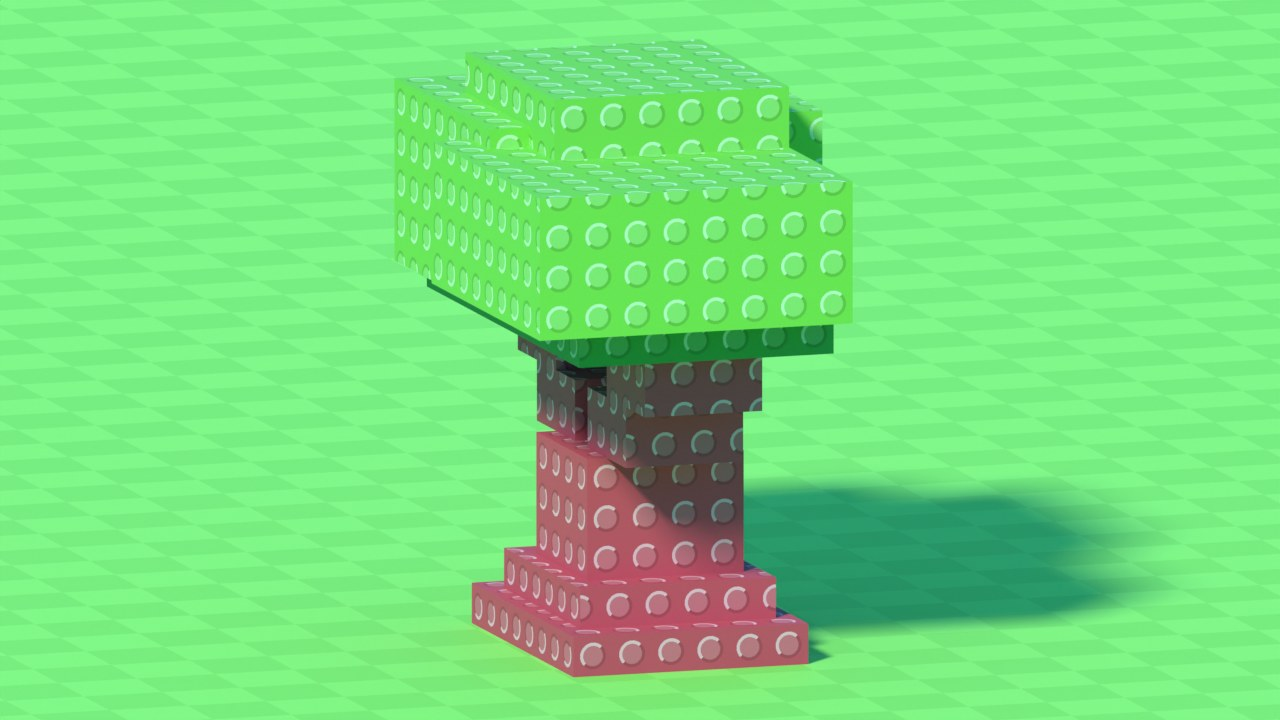
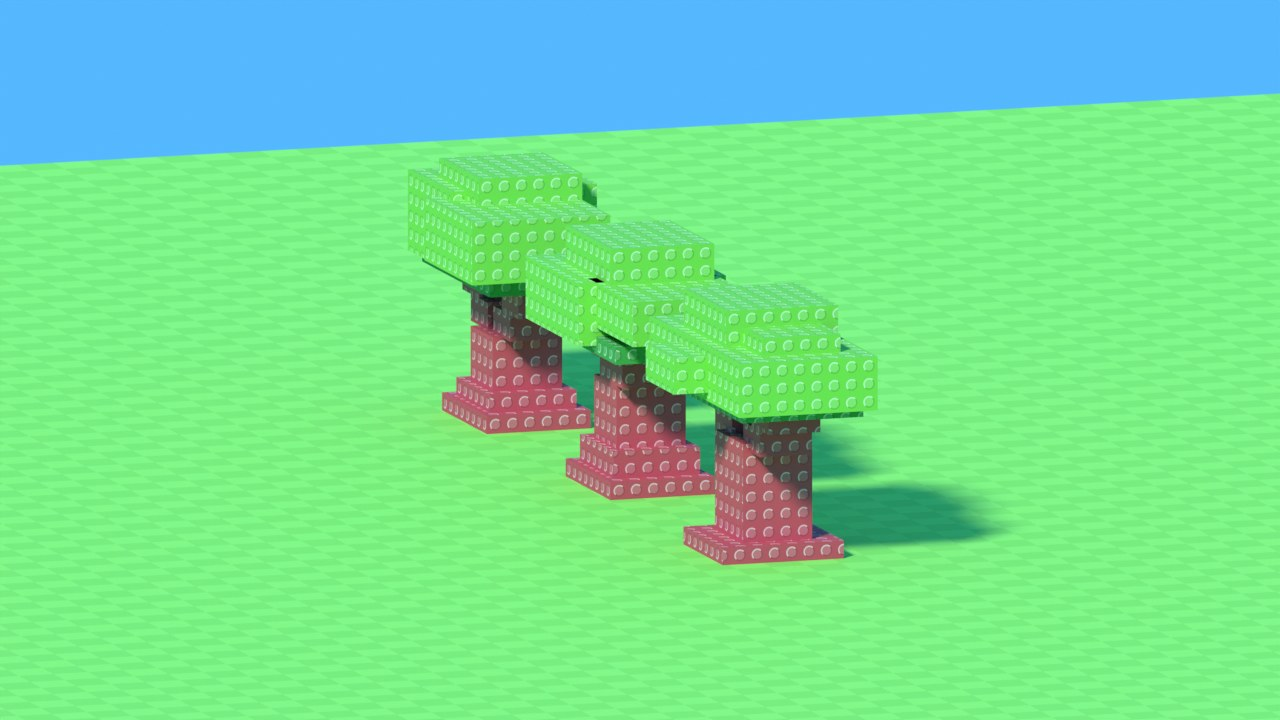
Forja Rápida: 3 variantes por árbol de la Pradera y Arbol_Seco nuevo (ramas de cajas inclinadas, referencia arbol-seco-*.png), renders de prueba

diff --git a/forja-rapida/arte/scripts/decoracion.py b/forja-rapida/arte/scripts/decoracion.py
@@ -47,6 +47,10 @@ Piezas:
   Arbol_Rosa     Pradera (va al fondo): el mediano como un cerezo de bloques: tronco marrón rojizo,
                  caja de abajo fucsia y escalón violeta. Mallas Tronco, Sombra, CopaFucsia y
                  CopaVioleta.
+  Arbol_Seco     Pradera: tronco de ladrillos marrón violeta con base en escalones y 3 ramas de
+                 cajas inclinadas que terminan en punta, sin hojas (16 studs de alto; referencia
+                 arte/referencias/arbol-seco-*.png). Malla Tronco.
+                 Cada árbol de la Pradera tiene 3 variantes (Arbol_Grande_1, _2 y _3...).
   Roca_Meteorito solo Abismo: media bola chata de bloques de 2 studs azul noche, con un cráter
                  arriba (corrido a un costado) que brilla violeta en el fondo y estrellitas lilas
                  (Neon) en los costados (arte/referencias/abismo-1.png). Dos tamaños: Chico (12
@@ -190,6 +194,37 @@ class Malla:
             signo = 1 if letra.isupper() else -1
             a, b = self.EJES[eje]
             self.rect(eje, signo, rangos[eje][1 if signo > 0 else 0], rangos[a], rangos[b])
+
+    def caja_girada(self, base, largo, ancho, rumbo, inclinacion):
+        """Caja de ancho x ancho x largo que sale de `base` (centro de su cara de abajo, en studs)
+        inclinada `inclinacion` grados desde la vertical hacia `rumbo` (grados en el piso, 0 = +x).
+        Los studs siguen a la caja (sus UV se cortan cada TEJA studs desde su propia esquina)."""
+        from mathutils import Matrix, Vector
+
+        giro = Matrix.Rotation(math.radians(rumbo), 3, "Z") @ Matrix.Rotation(math.radians(inclinacion), 3, "Y")
+        h = ancho / 2
+        rangos = ((-h, h), (-h, h), (0, largo))
+        for eje in range(3):
+            a, b = self.EJES[eje]
+            for signo in (-1, 1):
+                fijo = rangos[eje][1 if signo > 0 else 0]
+                # en la caja, los cortes de la textura empiezan en su esquina
+                for a0, a1 in cortes(0, rangos[a][1] - rangos[a][0]):
+                    for b0, b1 in cortes(0, rangos[b][1] - rangos[b][0]):
+                        ta, tb = math.floor(a0 / TEJA + 1e-6) * TEJA, math.floor(b0 / TEJA + 1e-6) * TEJA
+                        esquinas = [(a0, b0), (a1, b0), (a1, b1), (a0, b1)]
+                        if signo < 0:
+                            esquinas.reverse()
+                        vs, uvs = [], []
+                        for ca, cb in esquinas:
+                            p = Vector((0.0, 0.0, 0.0))
+                            p[eje], p[a], p[b] = fijo, ca + rangos[a][0], cb + rangos[b][0]
+                            q = Vector(base) + giro @ p
+                            vs.append(self.bm.verts.new([c * M.STUD for c in q]))
+                            uvs.append(((ca - ta) / TEJA, (cb - tb) / TEJA))
+                        cara = self.bm.faces.new(vs)
+                        for loop, uv in zip(cara.loops, uvs):
+                            loop[self.uv].uv = uv
 
     def objeto(self, nombre, mat):
         malla = bpy.data.meshes.new(nombre)
@@ -1031,80 +1066,182 @@ def mats_arbol(studs=None):
     return mats
 
 
-# Arbol_Grande (Pradera): como los árboles de las capturas (arte/referencias/estilo-1.png y
-# mapa-1.png): tronco grueso bordó en escalones que se abre en 2 ramas, una losa verde oscuro de
-# sombra abajo de la copa y 4 cajas verdes corridas y en escalones (la de la izquierda sobresale
-# de costado). 14 studs de alto, 17 de ancho.
+# Árboles de la Pradera (zona 1), como los de las capturas (arte/referencias/estilo-1.png y
+# mapa-1.png): cajas en studs ((x0, x1), (y0, y1), (z0, z1)), una lista por malla. Cada tipo tiene
+# 3 variantes; pivote en el centro de la base.
+#   Arbol_Grande  (14 studs) tronco grueso bordó que se abre en ramas, losa de sombra y copa de
+#                 4 cajas verdes corridas en escalones, alguna que sobresale.
+#   Arbol_Mediano (9) tronco recto y 2 cajas de copa en escalón.
+#   Arbol_Rosa    (9) el mediano como un cerezo de bloques: abajo fucsia, el escalón violeta.
+#   Arbol_Seco    (16) tronco de ladrillos marrón violeta en punta, con base en escalones y 3 ramas
+#                 de cajas inclinadas que terminan en punta, sin hojas (arte/referencias/arbol-seco-*.png).
 GRANDE_TRONCO = "#B0414E"  # bordó, como los troncos del juego
 GRANDE_SOMBRA = "#2F8F3A"  # HojasOscuras de mapa.py
 GRANDE_COPA = "#66C23A"
-# cajas en studs: ((x0, x1), (y0, y1), (z0, z1))
-GRANDE_CAJAS = {
-    "tronco": [
-        ((-4, 4), (-3, 3), (0, 1)),  # raíces
-        ((-3, 3), (-2.5, 2.5), (1, 2)),
-        ((-2, 2), (-2, 2), (2, 5)),
-        ((-3.5, -0.5), (-1.5, 1.5), (5, 6.5)),  # rama izquierda
-        ((-5, -2), (-1.5, 1.5), (6.5, 8.5)),
-        ((0.5, 3.5), (-1.5, 1.5), (5, 6.5)),  # rama derecha
-        ((2, 5), (-1.5, 1.5), (6.5, 8.5)),
-    ],
-    "sombra": [((-6, 6), (-3.5, 3), (8, 9))],
-    "copa": [
-        ((-7, 0.5), (-4, 4.5), (8.5, 13)),  # la grande de la izquierda
-        ((-1, 7.5), (-5, 3), (9, 12.5)),  # la de la derecha, más baja y corrida al frente
-        ((-4.5, 2.5), (-3, 3), (12.5, 14)),  # escalón de arriba
-        ((-10, -6), (-2.5, 2), (9.5, 12)),  # la que sobresale de costado
-    ],
-}
-MAX_GRANDE = 3000  # por pieza (sumando sus mallas)
-# Arbol_Mediano (Pradera): como el grande, con tronco recto y 2 cajas de copa en escalón.
-# 9 studs de alto, 10 de ancho.
-MEDIANO_CAJAS = {
-    "tronco": [
-        ((-3, 3), (-2, 2), (0, 1)),  # raíces
-        ((-2, 2), (-1.5, 1.5), (1, 5)),
-    ],
-    "sombra": [((-4, 4), (-3, 2.5), (4.5, 5.5))],
-    "copa": [
-        ((-5, 1.5), (-3.5, 3.5), (5, 7.5)),  # la de abajo, corrida a la izquierda
-        ((-1, 5), (-3, 2.5), (6.5, 9)),  # el escalón, más alto y a la derecha
-    ],
-}
-MAX_MEDIANO = 2000
-# Arbol_Rosa (Pradera, va al fondo): el mediano como un cerezo de bloques (capturas del juego):
-# tronco marrón rojizo, la caja de abajo fucsia y el escalón violeta, sombra violeta oscuro.
-ROSA_CAJAS = {
-    "tronco": MEDIANO_CAJAS["tronco"],
-    "sombra": MEDIANO_CAJAS["sombra"],
-    "fucsia": MEDIANO_CAJAS["copa"][:1],
-    "violeta": MEDIANO_CAJAS["copa"][1:],
-}
+GRANDES = [
+    {  # 1: se abre en V, la copa sobresale a la izquierda
+        "tronco": [
+            ((-4, 4), (-3, 3), (0, 1)),  # raíces
+            ((-3, 3), (-2.5, 2.5), (1, 2)),
+            ((-2, 2), (-2, 2), (2, 5)),
+            ((-3.5, -0.5), (-1.5, 1.5), (5, 6.5)),  # rama izquierda
+            ((-5, -2), (-1.5, 1.5), (6.5, 8.5)),
+            ((0.5, 3.5), (-1.5, 1.5), (5, 6.5)),  # rama derecha
+            ((2, 5), (-1.5, 1.5), (6.5, 8.5)),
+        ],
+        "sombra": [((-6, 6), (-3.5, 3), (8, 9))],
+        "copa": [
+            ((-7, 0.5), (-4, 4.5), (8.5, 13)),  # la grande de la izquierda
+            ((-1, 7.5), (-5, 3), (9, 12.5)),  # la de la derecha, más baja y corrida al frente
+            ((-4.5, 2.5), (-3, 3), (12.5, 14)),  # escalón de arriba
+            ((-10, -6), (-2.5, 2), (9.5, 12)),  # la que sobresale de costado
+        ],
+    },
+    {  # 2: el tronco se corre a la derecha, una rama sola a la izquierda, sobresale a la derecha
+        "tronco": [
+            ((-4, 4), (-3, 3), (0, 1)),
+            ((-3, 3), (-2.5, 2.5), (1, 2.5)),
+            ((-2, 2), (-2, 2), (2.5, 6)),
+            ((-1, 3), (-2, 2), (6, 8.5)),
+            ((-4, -1.5), (-1, 1), (4.5, 6.5)),  # rama izquierda
+            ((-5.5, -3), (-1, 1), (6.5, 8.5)),
+        ],
+        "sombra": [((-6, 6.5), (-3.5, 3.5), (8, 9))],
+        "copa": [
+            ((-6.5, 3), (-4.5, 4), (8.5, 12)),
+            ((1.5, 9.5), (-3.5, 3.5), (9.5, 12)),  # la que sobresale de costado
+            ((-4, 4), (-3, 3), (11.5, 14)),  # escalón de arriba
+            ((-8.5, -4.5), (-2.5, 2.5), (9, 11)),
+        ],
+    },
+    {  # 3: copa ancha y chata en dos pisos, con una caja que sale al frente
+        "tronco": [
+            ((-3.5, 3.5), (-3.5, 3.5), (0, 1)),
+            ((-2.5, 2.5), (-2, 2), (1, 6.5)),
+            ((-4, -1), (-1.5, 1.5), (6, 7.5)),  # rama izquierda
+            ((-5.5, -2.5), (-1.5, 1.5), (7.5, 9)),
+            ((1, 4), (-1.5, 1.5), (6, 7.5)),  # rama derecha
+            ((2.5, 5.5), (-1.5, 1.5), (7.5, 9)),
+        ],
+        "sombra": [((-7, 7), (-3.5, 3.5), (8.5, 9.5))],
+        "copa": [
+            ((-8, 8), (-4, 4), (9, 12)),
+            ((-5, 2.5), (-3, 3.5), (12, 14)),  # escalón de arriba, corrido a la izquierda
+            ((2.5, 6), (-2, 2.5), (11.5, 13)),
+            ((-2.5, 2.5), (-6, -3.5), (9.5, 11.5)),  # la que sale al frente
+        ],
+    },
+]
+MEDIANOS = [
+    {  # 1: abajo a la izquierda, el escalón a la derecha
+        "tronco": [((-3, 3), (-2, 2), (0, 1)), ((-2, 2), (-1.5, 1.5), (1, 5))],
+        "sombra": [((-4, 4), (-3, 2.5), (4.5, 5.5))],
+        "copa": [((-5, 1.5), (-3.5, 3.5), (5, 7.5)), ((-1, 5), (-3, 2.5), (6.5, 9))],
+    },
+    {  # 2: al revés, y el tronco con un escalón
+        "tronco": [((-3, 3), (-2, 2), (0, 1)), ((-2, 2), (-1.5, 1.5), (1, 3)), ((-1.5, 2), (-1.5, 1.5), (3, 5))],
+        "sombra": [((-4, 4.5), (-2.5, 3), (4.5, 5.5))],
+        "copa": [((-1.5, 5), (-3.5, 3.5), (5, 7.5)), ((-5, 1), (-2.5, 3), (6.5, 9))],
+    },
+    {  # 3: en pirámide, el escalón centrado y corrido atrás
+        "tronco": [((-2.5, 2.5), (-2.5, 2.5), (0, 1)), ((-1.5, 1.5), (-1.5, 1.5), (1, 5))],
+        "sombra": [((-4, 4), (-3, 3), (4.5, 5.5))],
+        "copa": [((-4.5, 4.5), (-3.5, 3.5), (5, 7.5)), ((-2.5, 2.5), (-2, 3), (7, 9))],
+    },
+]
+# el rosa: la caja de abajo fucsia y el escalón violeta
+ROSAS = [{"tronco": m["tronco"], "sombra": m["sombra"], "fucsia": m["copa"][:1], "violeta": m["copa"][1:]} for m in MEDIANOS]
+
+
+def rama_seca(base, rumbo, tramos):
+    """Rama de cajas inclinadas (arte/referencias/arbol-seco-*.png): sale de `base` (studs) hacia
+    `rumbo` (grados en el piso, 0 = +x) y cada tramo (inclinación desde la vertical, largo,
+    ancho) arranca cerca de la punta del anterior; el último, más angosto, es la punta."""
+    x, y, z = base
+    cajas = []
+    for inclinacion, largo, ancho in tramos:
+        cajas.append(("girada", (x, y, z), largo, ancho, rumbo, inclinacion))
+        t, r = math.radians(inclinacion), math.radians(rumbo)
+        sigue = largo - ancho * 0.4
+        x += sigue * math.sin(t) * math.cos(r)
+        y += sigue * math.sin(t) * math.sin(r)
+        z += sigue * math.cos(t)
+    return cajas
+
+
+SECOS = [
+    {  # 1: tronco alto en punta, una rama larga a cada lado y una chica al frente
+        "tronco": [
+            ((-4, 4), (-3.5, 3.5), (0, 2)),  # base en escalones
+            ((-5, -3), (-2, 1), (0, 1)),
+            ((3, 5), (-1, 2), (0, 1.5)),
+            ((-1, 2), (-4.5, -3.5), (0, 1)),
+            ((-3, 3), (-3, 3), (2, 5)),
+            ((-2, 2), (-2, 2), (5, 13)),
+            ((-1.5, 1.5), (-1.5, 1.5), (13, 15)),
+            ((-1, 1), (-1, 1), (15, 16)),  # punta
+            *rama_seca((-1, 0, 7), 180, [(50, 7, 2.5), (30, 5, 2)]),
+            *rama_seca((1, 0.3, 8), 0, [(45, 6, 2.2), (25, 4, 1.8)]),
+            *rama_seca((0.5, -1, 10.5), -60, [(35, 3.5, 1.6)]),
+        ],
+    },
+    {  # 2: tronco más fino, dos ramas a la derecha y una a la izquierda
+        "tronco": [
+            ((-3.5, 3.5), (-3, 3), (0, 1.5)),
+            ((-2.5, 2.5), (-2.5, 2.5), (1.5, 4.5)),
+            ((2, 4), (-2, 0), (0, 2.5)),
+            ((-4, -2.5), (0, 2), (0, 1)),
+            ((-1.5, 1.5), (-1.5, 1.5), (4.5, 14)),
+            ((-1, 1), (-1, 1), (14, 16)),  # punta
+            *rama_seca((1, 0, 6), 10, [(55, 6, 2), (30, 5, 1.6)]),
+            *rama_seca((1, 0, 10), -10, [(40, 4, 1.8)]),
+            *rama_seca((-1, 0, 8), 190, [(40, 6, 2), (20, 4, 1.6)]),
+        ],
+    },
+    {  # 3: Y: tronco corto que se abre en dos brazos gruesos, y uno chico al frente
+        "tronco": [
+            ((-4, 4), (-3.5, 3.5), (0, 1.5)),
+            ((-3, 3), (-3, 3), (1.5, 4)),
+            ((3, 4.5), (-2, 1), (0, 1)),
+            ((-1.5, 1), (-4.5, -3.5), (0, 1)),
+            ((-2, 2), (-2, 2), (4, 7)),
+            *rama_seca((-0.5, 0, 6), 180, [(20, 5, 3), (35, 4, 2.4), (15, 3, 1.8)]),
+            *rama_seca((0.5, 0, 6), 0, [(25, 5, 3), (10, 4, 2.4)]),
+            *rama_seca((0, -0.5, 8), -90, [(40, 3.5, 1.6)]),
+        ],
+    },
+]
 COLORES_VERDE = {"tronco": GRANDE_TRONCO, "sombra": GRANDE_SOMBRA, "copa": GRANDE_COPA}
 COLORES_ROSA = {"tronco": "#8E4A42", "sombra": "#8A2C9E", "fucsia": "#E05CEB", "violeta": "#B04DFF"}  # violeta del arcoíris
+COLORES_SECO = {"tronco": "#7A5A5C"}  # marrón violeta, como los árboles secos del juego
 # nombre de cada malla
 MALLAS_ARBOL = {"tronco": "Tronco", "sombra": "Sombra", "copa": "Copa", "fucsia": "CopaFucsia", "violeta": "CopaVioleta"}
-# nombre -> (cajas, alto en studs, máximo de triángulos, colores, prefijo de los materiales)
+# tipo -> (variantes, alto en studs, máximo de triángulos, colores, prefijo de los materiales)
 ARBOLES_PRADERA = {
-    "Arbol_Grande": (GRANDE_CAJAS, 14, MAX_GRANDE, COLORES_VERDE, "Grande"),
-    "Arbol_Mediano": (MEDIANO_CAJAS, 9, MAX_MEDIANO, COLORES_VERDE, "Grande"),
-    "Arbol_Rosa": (ROSA_CAJAS, 9, MAX_MEDIANO, COLORES_ROSA, "Rosa"),
+    "Arbol_Grande": (GRANDES, 14, 3000, COLORES_VERDE, "Grande"),
+    "Arbol_Mediano": (MEDIANOS, 9, 2000, COLORES_VERDE, "Grande"),
+    "Arbol_Rosa": (ROSAS, 9, 2000, COLORES_ROSA, "Rosa"),
+    "Arbol_Seco": (SECOS, 16, 2500, COLORES_SECO, "Seco"),
 }
 
 
-def arbol_pradera(mats, pieza="Arbol_Grande"):
-    """Un árbol de ARBOLES_PRADERA: una malla por clave de sus cajas (Tronco, Sombra y Copa, o
-    CopaFucsia y CopaVioleta en el rosa). Pivote en el centro de la base."""
-    cajas, _, tope, _, _ = ARBOLES_PRADERA[pieza]
+def arbol_pradera(mats, pieza="Arbol_Grande", variante=1):
+    """Una variante (1, 2 o 3) de un árbol de ARBOLES_PRADERA: una malla por clave de sus cajas
+    (Tronco, Sombra y Copa; CopaFucsia y CopaVioleta en el rosa; solo Tronco en el seco)."""
+    variantes, _, tope, _, _ = ARBOLES_PRADERA[pieza]
     piezas = []
-    for clave, lista in cajas.items():
+    for clave, lista in variantes[variante - 1].items():
         m = Malla()
-        for x, y, z in lista:
-            m.caja(x, y, z)
+        for c in lista:
+            if c[0] == "girada":
+                m.caja_girada(*c[1:])
+            else:
+                m.caja(*c)
         piezas.append((MALLAS_ARBOL[clave], m, mats[clave]))
-    objs, conteo = mallas(piezas, tope, pieza)
+    nombre = f"{pieza}_{variante}"
+    objs, conteo = mallas(piezas, tope, nombre)
     if sum(conteo.values()) > tope:
-        raise RuntimeError(f"{pieza}: {sum(conteo.values())} triángulos (máximo {tope})")
+        raise RuntimeError(f"{nombre}: {sum(conteo.values())} triángulos (máximo {tope})")
     return objs, conteo
 
 
@@ -1398,6 +1535,8 @@ REFERENCIAS = {
     "Arbol_Mediano": (("estilo-1.png", (0.18, 0.38, 0.32, 0.64)), ("mapa-1.png", (0.19, 0.40, 0.32, 0.64))),
     # la captura entera (los árboles rosas del fondo) y un acercamiento
     "Arbol_Rosa": ("estilo-1.png", ("estilo-1.png", (0.40, 0.33, 0.60, 0.58))),
+    # los árboles secos de la derecha de cada captura
+    "Arbol_Seco": ("arbol-seco-1.png", "arbol-seco-2.png"),
 }
 
 
@@ -1514,17 +1653,27 @@ def render_arbol():
 
 
 def render_arbol_pradera(pieza):
-    """Arbol_Grande o Arbol_Mediano de frente y de costado, al lado de las referencias."""
-    alto = ARBOLES_PRADERA[pieza][1] * M.STUD
+    """Las 3 variantes de un árbol de la Pradera en fila (1, 2, 3 de izquierda a derecha), de
+    frente y de costado, al lado de las referencias."""
+    variantes, alto, *_ = ARBOLES_PRADERA[pieza]
+    alto *= M.STUD
+    paso = {"Arbol_Grande": 22, "Arbol_Seco": 17}.get(pieza, 15)  # studs entre variantes
     for vista in ("frente", "costado"):
         M.limpiar_escena()
         escena = M.escena_render(1280, 720)
-        objs, conteo = arbol_pradera(mats_pradera(pieza, textura_studs()), pieza)
+        mats = mats_pradera(pieza, textura_studs())
+        conteos = []
+        for i in range(len(variantes)):
+            objs, conteo = arbol_pradera(mats, pieza, i + 1)
+            M.mover(objs, (i - 1) * paso * M.STUD)
+            conteos.append(conteo)
         giro = -18 if vista == "frente" else 72
-        camara_orto(escena, (0, 0, alto * 0.5), alto * 1.25 * 16 / 9, 10, giro)
+        ancho = max(alto * 1.25 * 16 / 9, 3.2 * paso * M.STUD)
+        camara_orto(escena, (0, 0, alto * 0.5), ancho, 10, giro)
         M.render(f"{pieza.lower()}_{vista}")
     comparar(pieza)
-    print("TRIANGULOS", pieza, conteo, "total", sum(conteo.values()))
+    for i, conteo in enumerate(conteos):
+        print("TRIANGULOS", f"{pieza}_{i + 1}", conteo, "total", sum(conteo.values()))
 
 
 def noche_abismo(escena):
@@ -1855,25 +2004,27 @@ def exportar_zona5():
     print("  FBX Deco_Zona5.fbx")
 
 
-EXPORTAR_ZONA1 = ["Arbol_Grande", "Arbol_Mediano", "Arbol_Rosa"]  # las aprobadas
+EXPORTAR_ZONA1 = ["Arbol_Grande", "Arbol_Mediano", "Arbol_Rosa"]  # los tipos aprobados
 
 
 def exportar_zona1():
     """Deco_Zona1.fbx: piezas que son solo de la Pradera. Raíz Deco_Zona1 con un vacío por
-    árbol (Arbol_Grande...) y sus mallas Arbol_Grande_Tronco, _Sombra y _Copa. Sin textura: el
-    juego pone el color y TextureID = Studs.png en las tres."""
+    variante de cada árbol (Arbol_Grande_1, _2, _3...) y sus mallas (Arbol_Grande_1_Tronco,
+    _Sombra, _Copa...). Sin textura: el juego pone el color y TextureID = Studs.png en todas."""
     M.limpiar_escena()
     raiz = bpy.data.objects.new("Deco_Zona1", None)
     bpy.context.scene.collection.objects.link(raiz)
     for pieza in EXPORTAR_ZONA1:
-        vacio = bpy.data.objects.new(pieza, None)
-        bpy.context.scene.collection.objects.link(vacio)
-        vacio.parent = raiz
-        objs, conteo = arbol_pradera(mats_pradera(pieza), pieza)
-        for o in objs:
-            o.parent = vacio
-            o.name = o.data.name = f"{pieza}_{o.name.split('.')[0]}"
-        print("TRIANGULOS", pieza, conteo, "total", sum(conteo.values()))
+        for v in range(1, len(ARBOLES_PRADERA[pieza][0]) + 1):
+            nombre = f"{pieza}_{v}"
+            vacio = bpy.data.objects.new(nombre, None)
+            bpy.context.scene.collection.objects.link(vacio)
+            vacio.parent = raiz
+            objs, conteo = arbol_pradera(mats_pradera(pieza), pieza, v)
+            for o in objs:
+                o.parent = vacio
+                o.name = o.data.name = f"{nombre}_{o.name.split('.')[0]}"
+            print("TRIANGULOS", nombre, conteo, "total", sum(conteo.values()))
     bpy.ops.object.select_all(action="DESELECT")
     for o in [raiz, *raiz.children_recursive]:
         o.select_set(True)
